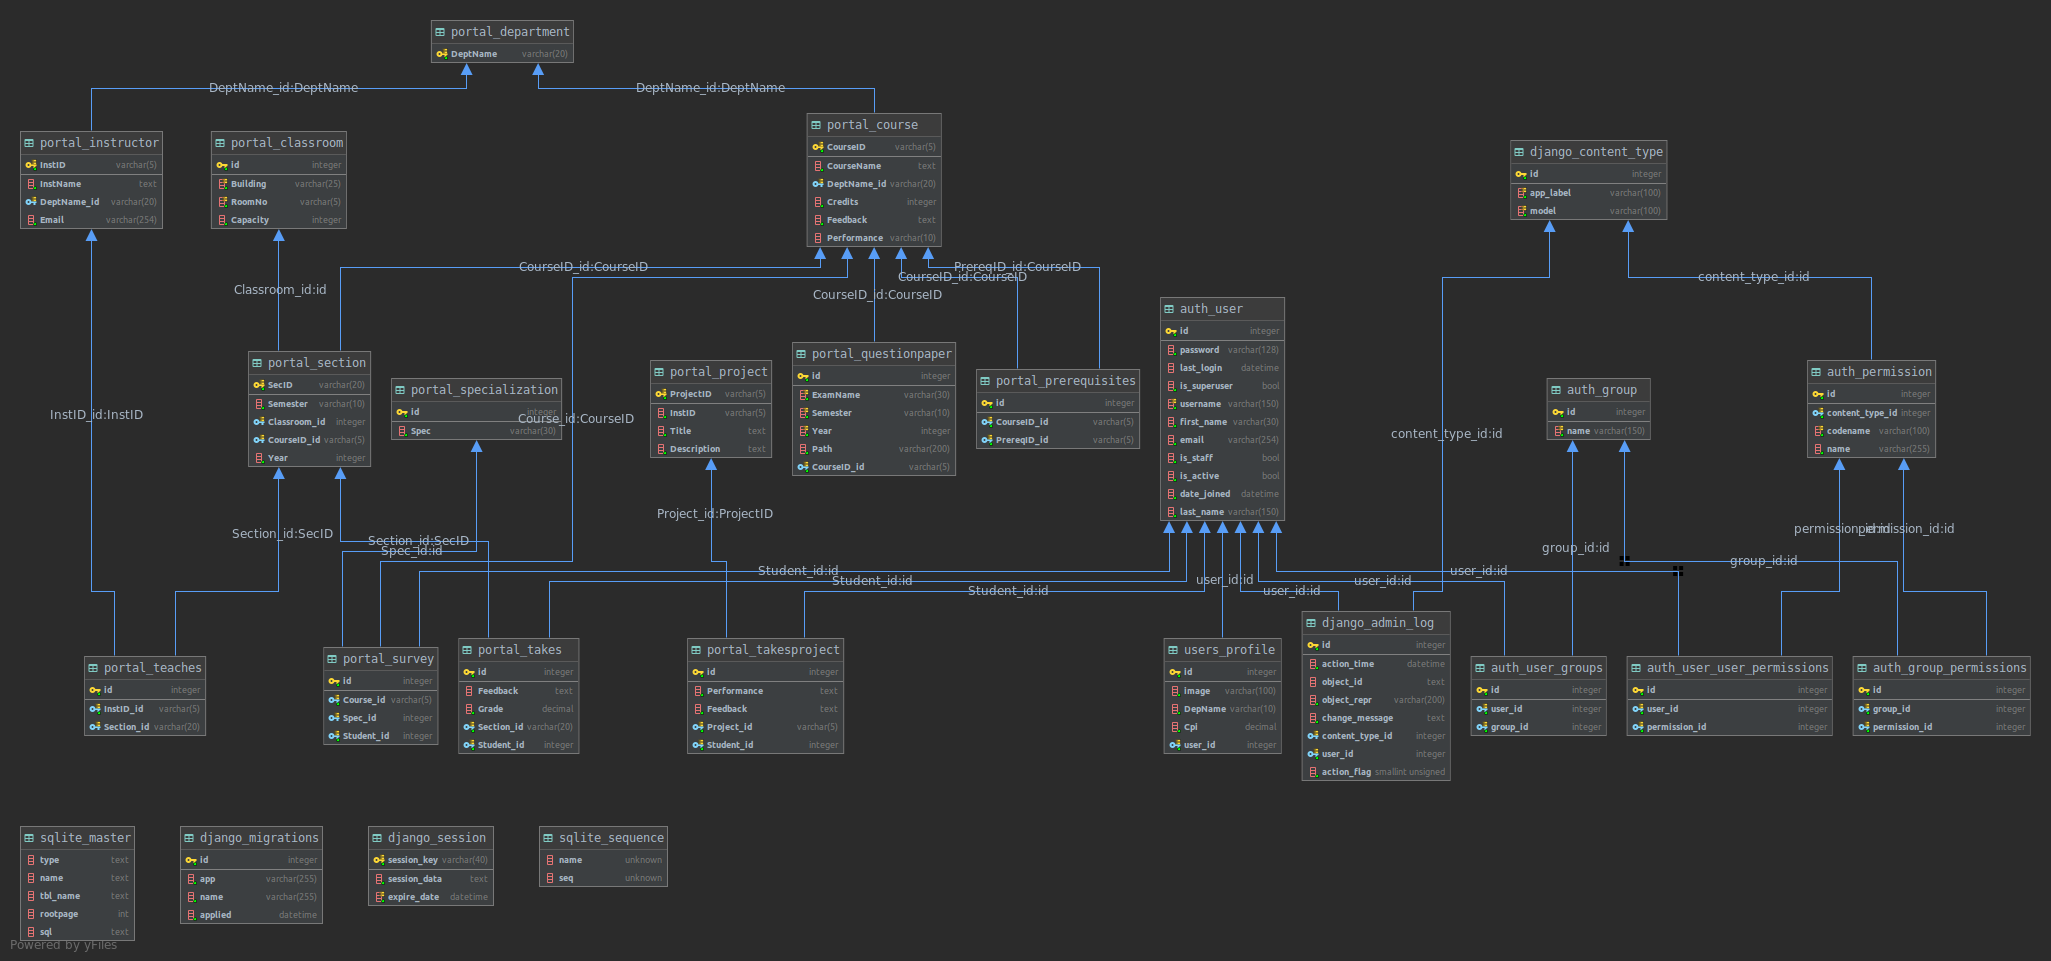
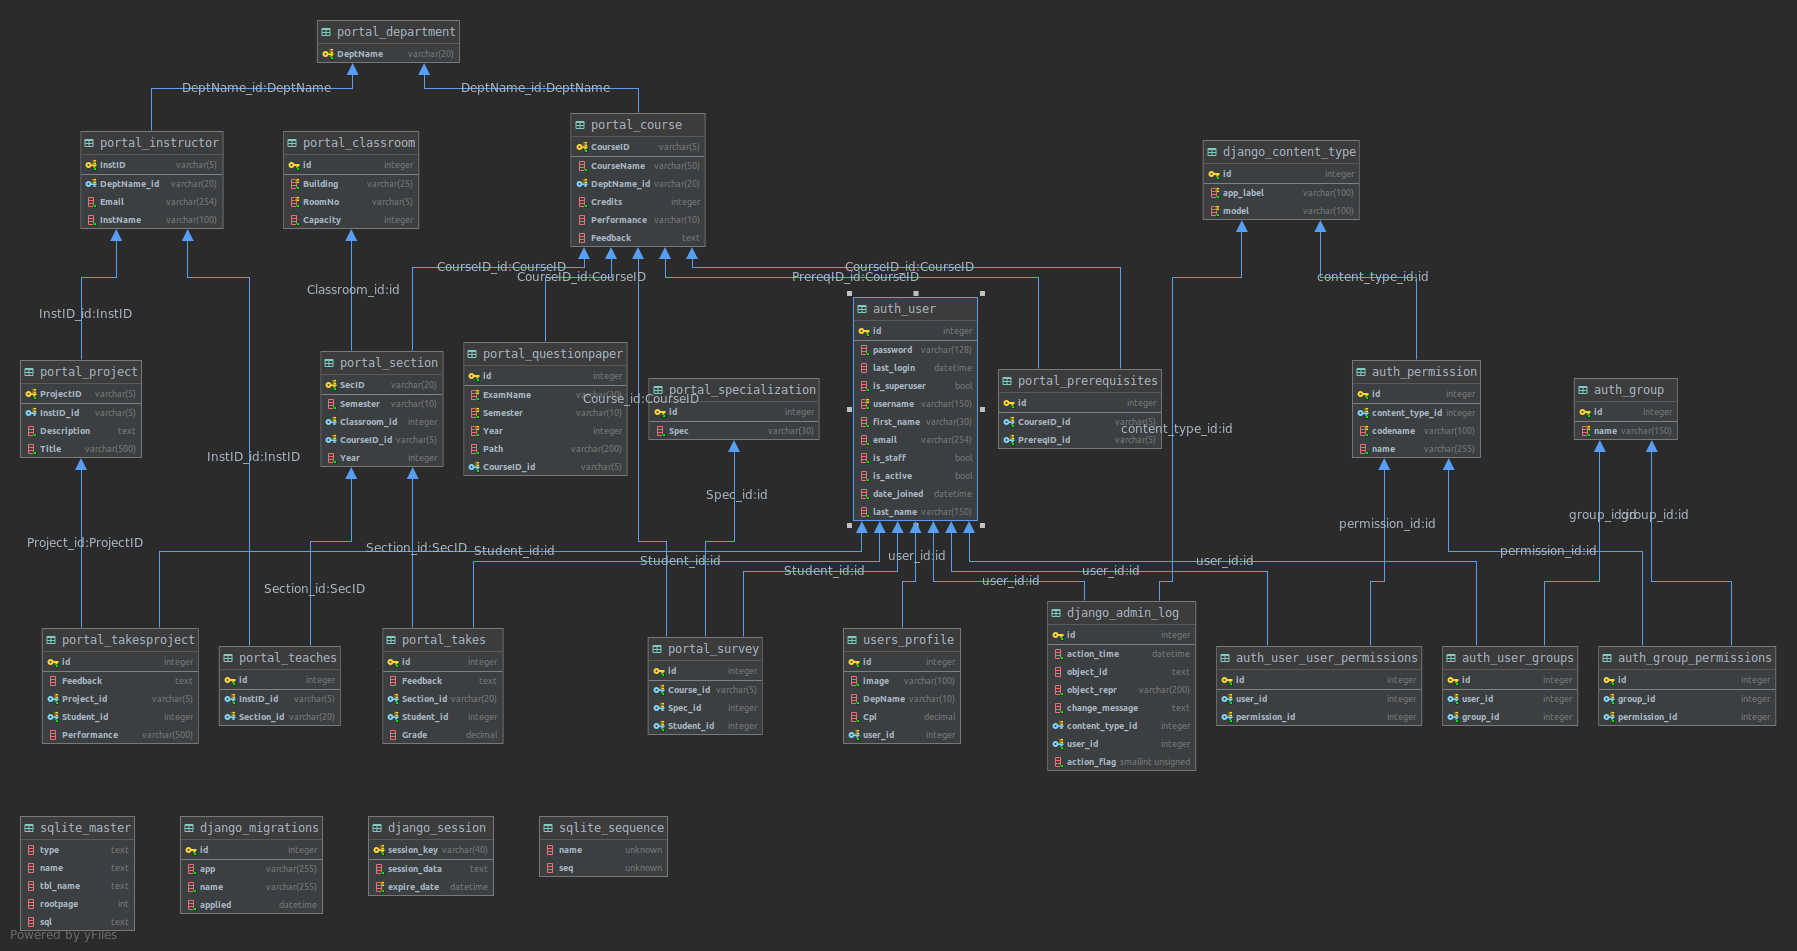
All Tables Required are Added to Admin Panel

diff --git a/Course_Management/portal/models.py b/Course_Management/portal/models.py
@@ -9,11 +9,11 @@ class Department(models.Model):
 
 class Course(models.Model):
     CourseID = models.CharField(max_length=5, primary_key=True)
-    CourseName = models.TextField()
+    CourseName = models.CharField(max_length=50)
     DeptName = models.ForeignKey(Department, models.SET_NULL, null=True)
     Credits = models.IntegerField()
     Performance = models.CharField(max_length=10, null=True, blank=True)
-    Feedback = models.TextField()
+    Feedback = models.TextField(blank=True, null=True)
 
 
 class Prerequisites(models.Model):
@@ -49,23 +49,23 @@ class Classroom(models.Model):
 
 class Instructor(models.Model):
     InstID = models.CharField(max_length=5, default='', primary_key=True)
-    InstName = models.TextField(default='')
+    InstName = models.CharField(max_length=100)
     DeptName = models.ForeignKey(Department, models.SET_NULL, null=True)
     Email = models.EmailField()
 
 
 class Project(models.Model):
     ProjectID = models.CharField(max_length=5, default='', primary_key=True)
-    InstID = models.CharField(max_length=5, default='')
-    Title = models.TextField()
+    InstID = models.ForeignKey(Instructor, models.SET_NULL, null=True)
+    Title = models.CharField(max_length=500)
     Description = models.TextField()
 
 
 class TakesProject(models.Model):
     Project = models.ForeignKey(Project, on_delete=models.CASCADE)
     Student = models.ForeignKey(User, on_delete=models.CASCADE)
-    Performance = models.TextField()
-    Feedback = models.TextField()
+    Performance = models.CharField(max_length=500, blank=True, null=True)
+    Feedback = models.TextField(blank=True, null=True)
 
     class Meta:
         unique_together = (('Project', 'Student'),)
@@ -83,7 +83,7 @@ class Takes(models.Model):
     Student = models.ForeignKey(User, models.CASCADE)
     Section = models.ForeignKey(Section, models.CASCADE)
     Feedback = models.TextField(blank=True, null=True)
-    Grade = models.DecimalField(max_digits=4, decimal_places=2)
+    Grade = models.DecimalField(max_digits=4, decimal_places=2, blank=True, null=True)
 
     class Meta:
         unique_together = (('Student', 'Section'),)
@@ -103,8 +103,8 @@ class Specialization(models.Model):
 
 class Survey(models.Model):
     Student = models.ForeignKey(User, models.CASCADE)
-    Course = models.ForeignKey(Course, models.CASCADE)
     Spec = models.ForeignKey(Specialization, models.SET_NULL, null=True)
+    Course = models.ForeignKey(Course, models.CASCADE)
 
     class Meta:
         unique_together = (('Student', 'Course', 'Spec'),)

diff --git a/Course_Management/portal/admin.py b/Course_Management/portal/admin.py
@@ -5,8 +5,15 @@ from .models import *
 # Register your models here.
 
 admin.site.register(Course)
+admin.site.register(Prerequisites)
+admin.site.register(QuestionPaper)
 admin.site.register(Classroom)
 admin.site.register(Instructor)
 admin.site.register(Project)
 admin.site.register(TakesProject)
 admin.site.register(Department)
+admin.site.register(Section)
+admin.site.register(Takes)
+admin.site.register(Teaches)
+admin.site.register(Specialization)
+admin.site.register(Survey)
